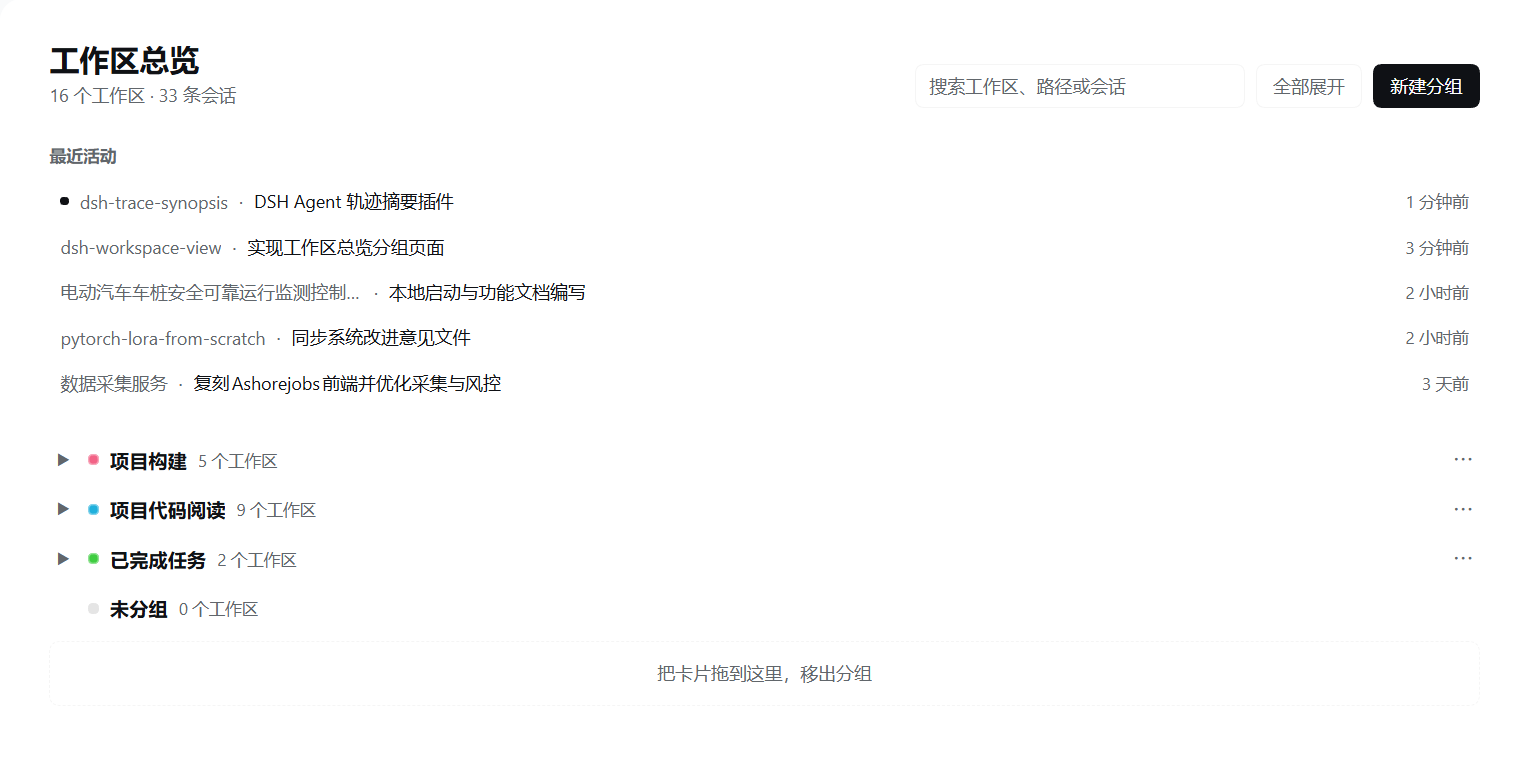
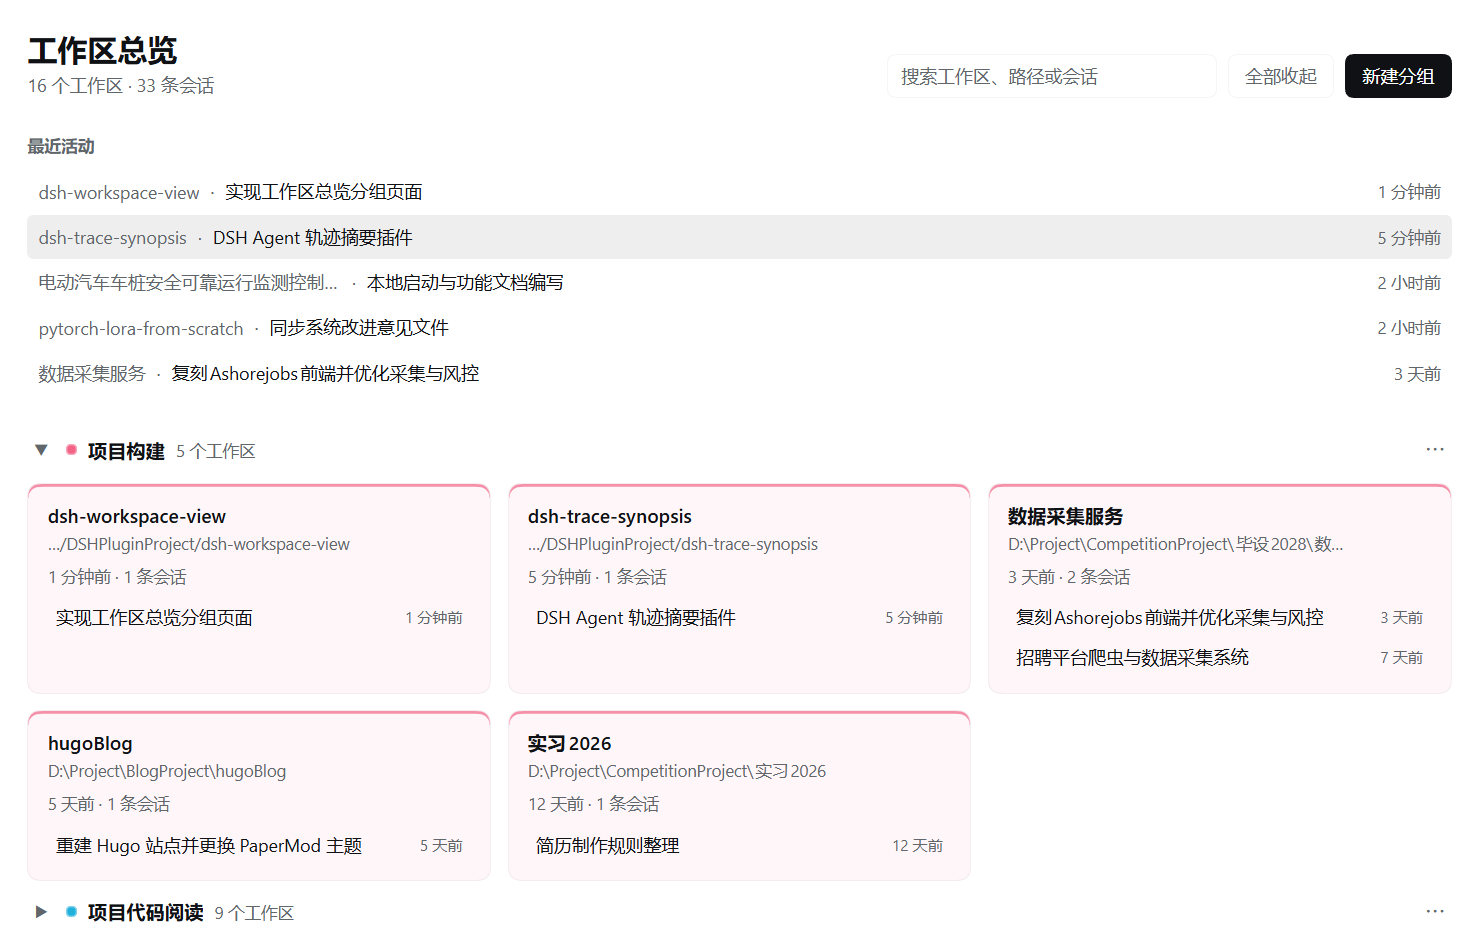
docs: replace the overview screenshot with the expanded-group view

diff --git a/README.md b/README.md
@@ -2,7 +2,7 @@
 
 DSH Web 客户端的全宽「工作区总览」插件：把工作区收进可自建分组、带配色的卡片里，一眼看清每个项目最近在做什么，点会话就能直接进入。
 
-![工作区总览：最近活动与可折叠的分组](docs/assets/workspace-overview.png)
+![工作区总览：最近活动、分组卡片与组内会话](docs/assets/workspace-overview.png)
 
 ## 功能
 
